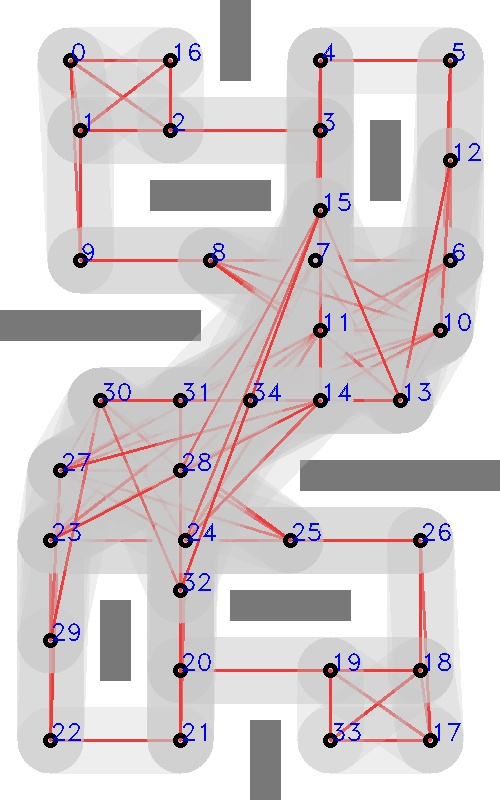
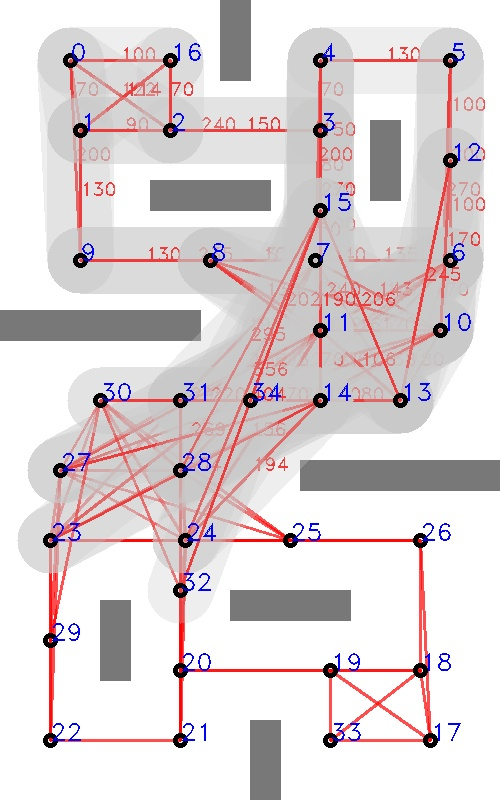
sync

diff --git a/src/robo_control/src/robo_control.cpp b/src/robo_control/src/robo_control.cpp
@@ -665,7 +665,7 @@ GambalInfo RoboControl::ctl_stack_enemy()
             {
                 sent_mcu_gimbal_result.mode = 2;
                 sent_mcu_gimbal_result.yaw = 0;
-                sent_mcu_gimbal_result.pitch = 20;
+                sent_mcu_gimbal_result.pitch = 25;
                 sent_mcu_gimbal_result.global_z = 0;
             }
         }
@@ -716,13 +716,14 @@ VelInfo RoboControl::ctl_go_to_point(int mode, float goal_x, float goal_y, float
     {
         if (robo_ukf_enemy_information.orientation.z != 999)
         {
-            goal_yaw = -robo_ukf_enemy_information.orientation.z * 180.0 / PI;
+            goal_yaw = -robo_ukf_enemy_information.orientation.y * 180.0 / PI;
         }
         target_pose = ctl_track_enemy(goal_x, goal_y, 0);
         sent_mcu_vel_result.mode = 1;
     }
     if (mode == 3)
     {
+        
     }
     sendNavGoal(target_pose);
 
@@ -749,12 +750,42 @@ geometry_msgs::Pose RoboControl::ctl_track_enemy(double enemy_x, double enemy_y,
     float self_x = robo_ukf_pose.position.x;
     float self_y = robo_ukf_pose.position.y;
 
+    geometry_msgs::Pose target_pose;
+
     if (last_enemy_target.object[0].pose.position.x < min_distance)
     {
         // 如果 enemy_target 的距离小于 0.8m, 将 enemy 映射到以自身为中心的对称点上, 计算得到相同直线上的反向最小距离点
-        self_coefficient = 0.6, enemy_coefficient = 0.4; // 修改系数大小, 这时候应该离自身较近
-        enemy_y = self_y - (enemy_y - self_y);
-        enemy_x = self_x - (enemy_x - self_x);
+        // self_coefficient = 0.6, enemy_coefficient = 0.4; // 修改系数大小, 这时候应该离自身较近
+        // enemy_y = self_y - (enemy_y - self_y);
+        // enemy_x = self_x - (enemy_x - self_x);
+        if (self_x > 4.0)
+        {
+            target_pose.position.x = self_x - 0.5;
+            target_pose.position.y = self_y;
+        }
+        else
+        {
+            target_pose.position.x = self_x - 0.5;
+            if (self_y < 1.5)
+            {
+                self_y = 0.7;
+            }
+            else if(self_y < 2.7)
+            {
+                self_y = self_y;
+            }
+            else if(self_y < 3.7)
+            {
+                self_y = 3.1;
+            }
+            else
+            {
+                self_y = 4.5;
+            }
+            target_pose.position.y = self_y;
+        }
+        target_pose.orientation = tf::createQuaternionMsgFromRollPitchYaw(0, 0, yaw);
+        return target_pose;
     }
 
     vector<float> dis_list;
@@ -788,7 +819,6 @@ geometry_msgs::Pose RoboControl::ctl_track_enemy(double enemy_x, double enemy_y,
     int n = distance(dis_list.begin(), smallest);
     ROS_INFO("OK27");
 
-    geometry_msgs::Pose target_pose;
     target_pose.position.x = point_list.at<double>(n, 1) / 100.0;
     target_pose.position.y = point_list.at<double>(n, 0) / 100.0;
     target_pose.orientation = tf::createQuaternionMsgFromRollPitchYaw(0, 0, yaw);

diff --git a/src/robo_navigation/script/2draw.py b/src/robo_navigation/script/2draw.py
@@ -34,8 +34,8 @@ pt_self=[(70,60),  #0
 (440,330),         #10
 (320,330),         #11
 (450,160),         #12
-(400,400),         #13
-(320,400),         #14
+(380,400),         #13
+(290,400),         #14
 (320,210),         #15
 (170,60)]          #16
 pt_enemy=[]
@@ -54,7 +54,7 @@ def add_edge(i,j):
     cv2.line(map_pt,pt_list[i],pt_list[j],color_red,2)
     distance=pow(pow((pt_list[i][0]-pt_list[j][0]),2)+pow((pt_list[i][1]-pt_list[j][1]),2),0.5)
     line_center=((pt_list[i][0]+pt_list[j][0])//2,(pt_list[i][1]+pt_list[j][1])//2)
-    # cv2.putText(map_pt,'%d'%(int(distance)),line_center,font,0.6,color_red)
+    cv2.putText(map_pt,'%d'%(int(distance)),line_center,font,0.6,color_red)
     nei_matrix[i][j]=round(distance+0.1)
     nei_matrix[j][i]=round(distance+0.1)
 
@@ -64,7 +64,7 @@ def add_edge(i,j):
         if (j != len(pt_list)-1):    
             j=len(pt_self)+j
 
-        cv2.line(map_draw_temp,pt_list[i],pt_list[j],color_light_gray,66)
+        #cv2.line(map_draw_temp,pt_list[i],pt_list[j],color_light_gray,66)
         cv2.line(map_pt,pt_list[i],pt_list[j],color_red,2)
         distance=pow(pow((pt_list[i][0]-pt_list[j][0]),2)+pow((pt_list[i][1]-pt_list[j][1]),2),0.5)
         line_center=((pt_list[i][0]+pt_list[j][0])//2,(pt_list[i][1]+pt_list[j][1])//2)

diff --git a/src/robo_control/src/MainControlStrategy2.cpp b/src/robo_control/src/MainControlStrategy2.cpp
@@ -1,7 +1,10 @@
 /*************************************************************************
 *
-*  1 策略: 最简单的策略: 看到敌人 -> 动态追击, 没有看到敌人 -> 固定蹲点
-*
+*  2 策略: 防守策略 1
+*  假设: 敌人 1 车开局抢占中点, 2 车站在地方区域 
+*  应对策略: 
+*  1. 我方 1 车占据 A(2.6, 3.1, 0度), 2 车占据 B(4.0, 4.2, 90度), 全力攻击敌方抢中点的车, 不管有没有将敌方车辆打死, 回到基地蹲点
+*  2. 我方 1 车蹲守 C(1.3, 1.8, -90度), 2 车占据 D(2.6, 2.0, -90度), 进行蹲点, 如果有一辆车看到敌人, 另一辆车就过去帮忙, 直到比赛结束
 *************************************************************************/
 
 #include <iostream>
@@ -9,8 +12,11 @@
 
 int main(int argc, char **argv)
 {
-    ros::init(argc, argv, "robo_control_strategy_1");
+    ros::init(argc, argv, "robo_control_strategy_2");
     ros::NodeHandle nh;
+    ros::NodeHandle private_nh("~");
+    int robot_id;
+    private_nh.getParam("robot_id", robot_id);
 
     RoboControl robo_ctl;
     ros::Subscriber sub_armor_info = nh.subscribe("base/armor_info", 1, &RoboControl::cb_armorInfo, &robo_ctl);

diff --git a/src/robo_perception/scripts/ukf_predict_node.py b/src/robo_perception/scripts/ukf_predict_node.py
@@ -635,12 +635,16 @@ while not rospy.is_shutdown():
 
     predict_pos.twist.twist.linear.z = TEMPERAL_LOST
     
-    predict_pos.pose.pose.orientation.x = UNABLE_PREDICT    
-    predict_pos.pose.pose.orientation.y = aimtheta
+    predict_pos.pose.pose.orientation.x = UNABLE_PREDICT  
+    if TARGET_RECETIVED == True: 
+        predict_pos.pose.pose.orientation.y = aimtheta
+    else:
+        predict_pos.pose.pose.orientation.y = 999
+
     if TARGET_RECETIVED == True: 
         #dyaw between target and gimbal
         gimbal_dtheta = aimtheta - global_gimbal_yaw 
-        # print 'gimbal_dtheta',gimbal_dtheta/np.pi*180,'aimtheta', aimtheta, 'global_gimbal_yaw',global_gimbal_yaw/np.pi*180
+        #print 'gimbal_dtheta',gimbal_dtheta/np.pi*180,'aimtheta', aimtheta, 'global_gimbal_yaw',global_gimbal_yaw/np.pi*180
         predict_pos.pose.pose.orientation.z = gimbal_dtheta
     else:
         predict_pos.pose.pose.orientation.z = 999 

diff --git a/src/robo_navigation/src/robo_navigation_node.cpp b/src/robo_navigation/src/robo_navigation_node.cpp
@@ -176,8 +176,8 @@ void RoboNav::cb_enemy_infor(const robo_perception::ObjectList &msg)
     enemy_information = msg;
 
     //update path
-    int index = 0, i = 0, j = 0;
-    while (index < enemy_information.num)
+    int index = -1, i = 0, j = 0;
+    while (index > enemy_information.num)
     {
         //string::size_type idx;
         //idx = enemy_information.object[index].team.data.find("death");
@@ -231,11 +231,11 @@ void RoboNav::cb_enemy_infor(const robo_perception::ObjectList &msg)
         }
         index++;
 
-        // if (index == enemy_information.num - 1)
-        // {
-        //     floyd.initFloydGraph();
-        //     path_plan(cur_goal);
-        // }
+         if (index == enemy_information.num - 1)
+         {
+             floyd.initFloydGraph();
+             path_plan(cur_goal);
+         }
     }
 }
 

diff --git a/src/robo_navigation/src/global_planner.cpp b/src/robo_navigation/src/global_planner.cpp
@@ -2,7 +2,7 @@
 
 
 void Floyd::loadMatrix(Mat& matrix){
-    matrix.convertTo(weight_graph,CV_32SC1);
+    matrix.convertTo(weight_graph,CV_64FC1);
     node_count=matrix.rows;
     memcpy(arrDis,weight_graph.data,sizeof(arrDis));
 }
@@ -23,6 +23,8 @@ void Floyd::initFloydGraph() {
                     arrPath[i][j] = arrPath[k][j];
                 }
             }
+
+   //cout<<"3-7:"<<arrDis[3][7]<<", 25-14: "<< arrDis[7][3]<<endl;
 }
 
 void Floyd::calcPath(int start, int end) {

diff --git a/src/robo_navigation/include/robo_navigation/global_planner.hpp b/src/robo_navigation/include/robo_navigation/global_planner.hpp
@@ -5,7 +5,7 @@
 using namespace std;
 using namespace cv;
 
-#define INF 10000
+#define INF 60000
 #define MAX_VERTEX_COUNT 35
 
 
@@ -14,7 +14,7 @@ public:
     Mat weight_graph;
     int node_count;
 
-    int arrDis[MAX_VERTEX_COUNT][MAX_VERTEX_COUNT];
+    double arrDis[MAX_VERTEX_COUNT][MAX_VERTEX_COUNT];
     int arrPath[MAX_VERTEX_COUNT][MAX_VERTEX_COUNT];
 
     vector<int> path;
